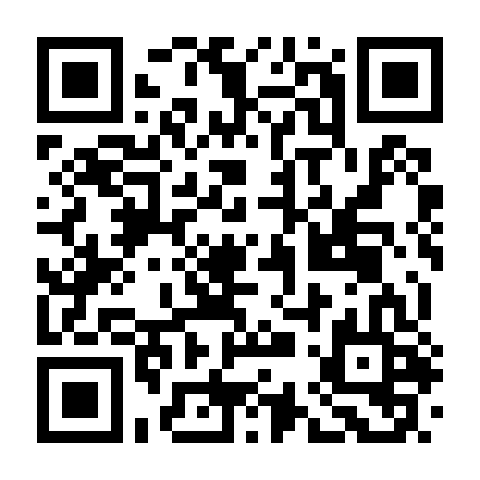
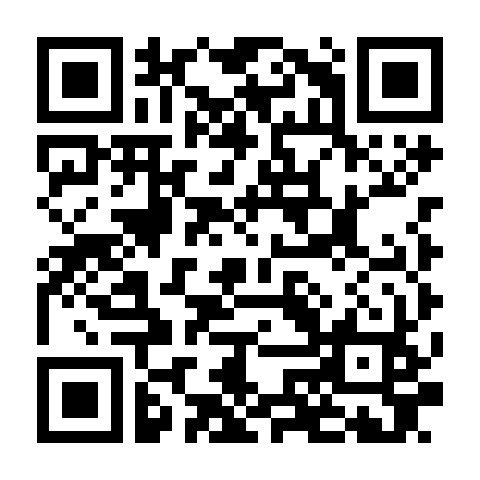
up

diff --git a/presentations/kpopLecture.html b/presentations/kpopLecture.html
@@ -1,0 +1,165 @@
+<!DOCTYPE html>
+<html lang="" xml:lang="">
+  <head>
+    <title>Guest Lecture</title>
+    <meta charset="utf-8" />
+    <meta name="author" content="Byunghwan Son   George Mason University" />
+    <script src="kpopLecture_files/header-attrs-2.29/header-attrs.js"></script>
+    <link href="kpopLecture_files/remark-css-0.0.1/default.css" rel="stylesheet" />
+    <link href="kpopLecture_files/remark-css-0.0.1/default-fonts.css" rel="stylesheet" />
+    <link rel="stylesheet" href="default" type="text/css" />
+    <link rel="stylesheet" href="css/footer.css" type="text/css" />
+    <link rel="stylesheet" href="css/color.css" type="text/css" />
+    <link rel="stylesheet" href="default-fonts" type="text/css" />
+  </head>
+  <body>
+    <textarea id="source">
+
+
+
+
+
+background-color: #094e0d
+class: inverse, middle
+background-image: url(https://textvulture.github.io/portrait_July2024.png)
+background-position: 23cm 2.5cm
+background-size: 20%
+
+# .large[K-pop Fans in the United States:] &lt;br&gt; .large[A Data-Driven Approach]&lt;br&gt;
+----
+
+## .right[Byunghwan Ben Son &lt;br&gt; .tiny[(Associate Professor, GLOA, GMU)]]
+
+
+---
+
+
+
+# Before we start:
+
+### The slides are completely .pink[online] and you can easily access it.
+
+
+
+&lt;img src="qr.png" width="400px" style="display: block; margin: auto;" /&gt;
+
+---
+    </textarea>
+<style data-target="print-only">@media screen {.remark-slide-container{display:block;}.remark-slide-scaler{box-shadow:none;}}</style>
+<script src="https://remarkjs.com/downloads/remark-latest.min.js"></script>
+<script>var slideshow = remark.create({
+  "ratio": "16:9",
+  "highlightStyle": "github",
+  "self-contained": true
+});
+if (window.HTMLWidgets) slideshow.on('afterShowSlide', function (slide) {
+  window.dispatchEvent(new Event('resize'));
+});
+(function(d) {
+  var s = d.createElement("style"), r = d.querySelector(".remark-slide-scaler");
+  if (!r) return;
+  s.type = "text/css"; s.innerHTML = "@page {size: " + r.style.width + " " + r.style.height +"; }";
+  d.head.appendChild(s);
+})(document);
+
+(function(d) {
+  var el = d.getElementsByClassName("remark-slides-area");
+  if (!el) return;
+  var slide, slides = slideshow.getSlides(), els = el[0].children;
+  for (var i = 1; i < slides.length; i++) {
+    slide = slides[i];
+    if (slide.properties.continued === "true" || slide.properties.count === "false") {
+      els[i - 1].className += ' has-continuation';
+    }
+  }
+  var s = d.createElement("style");
+  s.type = "text/css"; s.innerHTML = "@media print { .has-continuation { display: none; } }";
+  d.head.appendChild(s);
+})(document);
+// delete the temporary CSS (for displaying all slides initially) when the user
+// starts to view slides
+(function() {
+  var deleted = false;
+  slideshow.on('beforeShowSlide', function(slide) {
+    if (deleted) return;
+    var sheets = document.styleSheets, node;
+    for (var i = 0; i < sheets.length; i++) {
+      node = sheets[i].ownerNode;
+      if (node.dataset["target"] !== "print-only") continue;
+      node.parentNode.removeChild(node);
+    }
+    deleted = true;
+  });
+})();
+// add `data-at-shortcutkeys` attribute to <body> to resolve conflicts with JAWS
+// screen reader (see PR #262)
+(function(d) {
+  let res = {};
+  d.querySelectorAll('.remark-help-content table tr').forEach(tr => {
+    const t = tr.querySelector('td:nth-child(2)').innerText;
+    tr.querySelectorAll('td:first-child .key').forEach(key => {
+      const k = key.innerText;
+      if (/^[a-z]$/.test(k)) res[k] = t;  // must be a single letter (key)
+    });
+  });
+  d.body.setAttribute('data-at-shortcutkeys', JSON.stringify(res));
+})(document);
+(function() {
+  "use strict"
+  // Replace <script> tags in slides area to make them executable
+  var scripts = document.querySelectorAll(
+    '.remark-slides-area .remark-slide-container script'
+  );
+  if (!scripts.length) return;
+  for (var i = 0; i < scripts.length; i++) {
+    var s = document.createElement('script');
+    var code = document.createTextNode(scripts[i].textContent);
+    s.appendChild(code);
+    var scriptAttrs = scripts[i].attributes;
+    for (var j = 0; j < scriptAttrs.length; j++) {
+      s.setAttribute(scriptAttrs[j].name, scriptAttrs[j].value);
+    }
+    scripts[i].parentElement.replaceChild(s, scripts[i]);
+  }
+})();
+(function() {
+  var links = document.getElementsByTagName('a');
+  for (var i = 0; i < links.length; i++) {
+    if (/^(https?:)?\/\//.test(links[i].getAttribute('href'))) {
+      links[i].target = '_blank';
+    }
+  }
+})();</script>
+
+<script>
+slideshow._releaseMath = function(el) {
+  var i, text, code, codes = el.getElementsByTagName('code');
+  for (i = 0; i < codes.length;) {
+    code = codes[i];
+    if (code.parentNode.tagName !== 'PRE' && code.childElementCount === 0) {
+      text = code.textContent;
+      if (/^\\\((.|\s)+\\\)$/.test(text) || /^\\\[(.|\s)+\\\]$/.test(text) ||
+          /^\$\$(.|\s)+\$\$$/.test(text) ||
+          /^\\begin\{([^}]+)\}(.|\s)+\\end\{[^}]+\}$/.test(text)) {
+        code.outerHTML = code.innerHTML;  // remove <code></code>
+        continue;
+      }
+    }
+    i++;
+  }
+};
+slideshow._releaseMath(document);
+</script>
+<!-- dynamically load mathjax for compatibility with self-contained -->
+<script>
+(function () {
+  var script = document.createElement('script');
+  script.type = 'text/javascript';
+  script.src  = 'https://mathjax.rstudio.com/latest/MathJax.js?config=TeX-MML-AM_CHTML';
+  if (location.protocol !== 'file:' && /^https?:/.test(script.src))
+    script.src  = script.src.replace(/^https?:/, '');
+  document.getElementsByTagName('head')[0].appendChild(script);
+})();
+</script>
+  </body>
+</html>

diff --git a/presentations/kpopLecture_files/remark-css-0.0.1/default.css b/presentations/kpopLecture_files/remark-css-0.0.1/default.css
@@ -1,0 +1,72 @@
+a, a > code {
+  color: rgb(249, 38, 114);
+  text-decoration: none;
+}
+.footnote {
+  position: absolute;
+  bottom: 3em;
+  padding-right: 4em;
+  font-size: 90%;
+}
+.remark-code-line-highlighted     { background-color: #ffff88; }
+
+.inverse {
+  background-color: #272822;
+  color: #d6d6d6;
+  text-shadow: 0 0 20px #333;
+}
+.inverse h1, .inverse h2, .inverse h3 {
+  color: #f3f3f3;
+}
+/* Two-column layout */
+.left-column {
+  color: #777;
+  width: 20%;
+  height: 92%;
+  float: left;
+}
+.left-column h2:last-of-type, .left-column h3:last-child {
+  color: #000;
+}
+.right-column {
+  width: 75%;
+  float: right;
+  padding-top: 1em;
+}
+.pull-left {
+  float: left;
+  width: 47%;
+}
+.pull-right {
+  float: right;
+  width: 47%;
+}
+.pull-right + * {
+  clear: both;
+}
+img, video, iframe {
+  max-width: 100%;
+}
+blockquote {
+  border-left: solid 5px lightgray;
+  padding-left: 1em;
+}
+.remark-slide table {
+  margin: auto;
+  border-top: 1px solid #666;
+  border-bottom: 1px solid #666;
+}
+.remark-slide table thead th { border-bottom: 1px solid #ddd; }
+th, td { padding: 5px; }
+.remark-slide thead, .remark-slide tfoot, .remark-slide tr:nth-child(even) { background: #eee }
+
+@page { margin: 0; }
+@media print {
+  .remark-slide-scaler {
+    width: 100% !important;
+    height: 100% !important;
+    transform: scale(1) !important;
+    top: 0 !important;
+    left: 0 !important;
+  }
+}

diff --git a/presentations/kpopLecture_files/remark-css-0.0.1/default-fonts.css b/presentations/kpopLecture_files/remark-css-0.0.1/default-fonts.css
@@ -1,0 +1,10 @@
+@import url(https://fonts.googleapis.com/css?family=Yanone+Kaffeesatz);
+@import url(https://fonts.googleapis.com/css?family=Droid+Serif:400,700,400italic);
+@import url(https://fonts.googleapis.com/css?family=Source+Code+Pro:400,700);
+
+body { font-family: 'Droid Serif', 'Palatino Linotype', 'Book Antiqua', Palatino, 'Microsoft YaHei', 'Songti SC', serif; }
+h1, h2, h3 {
+  font-family: 'Yanone Kaffeesatz';
+  font-weight: normal;
+}
+.remark-code, .remark-inline-code { font-family: 'Source Code Pro', 'Lucida Console', Monaco, monospace; }

diff --git a/presentations/kpopLecture_files/header-attrs-2.29/header-attrs.js b/presentations/kpopLecture_files/header-attrs-2.29/header-attrs.js
@@ -1,0 +1,12 @@
+// Pandoc 2.9 adds attributes on both header and div. We remove the former (to
+// be compatible with the behavior of Pandoc < 2.8).
+document.addEventListener('DOMContentLoaded', function(e) {
+  var hs = document.querySelectorAll("div.section[class*='level'] > :first-child");
+  var i, h, a;
+  for (i = 0; i < hs.length; i++) {
+    h = hs[i];
+    if (!/^h[1-6]$/i.test(h.tagName)) continue;  // it should be a header h1-h6
+    a = h.attributes;
+    while (a.length > 0) h.removeAttribute(a[0].name);
+  }
+});
